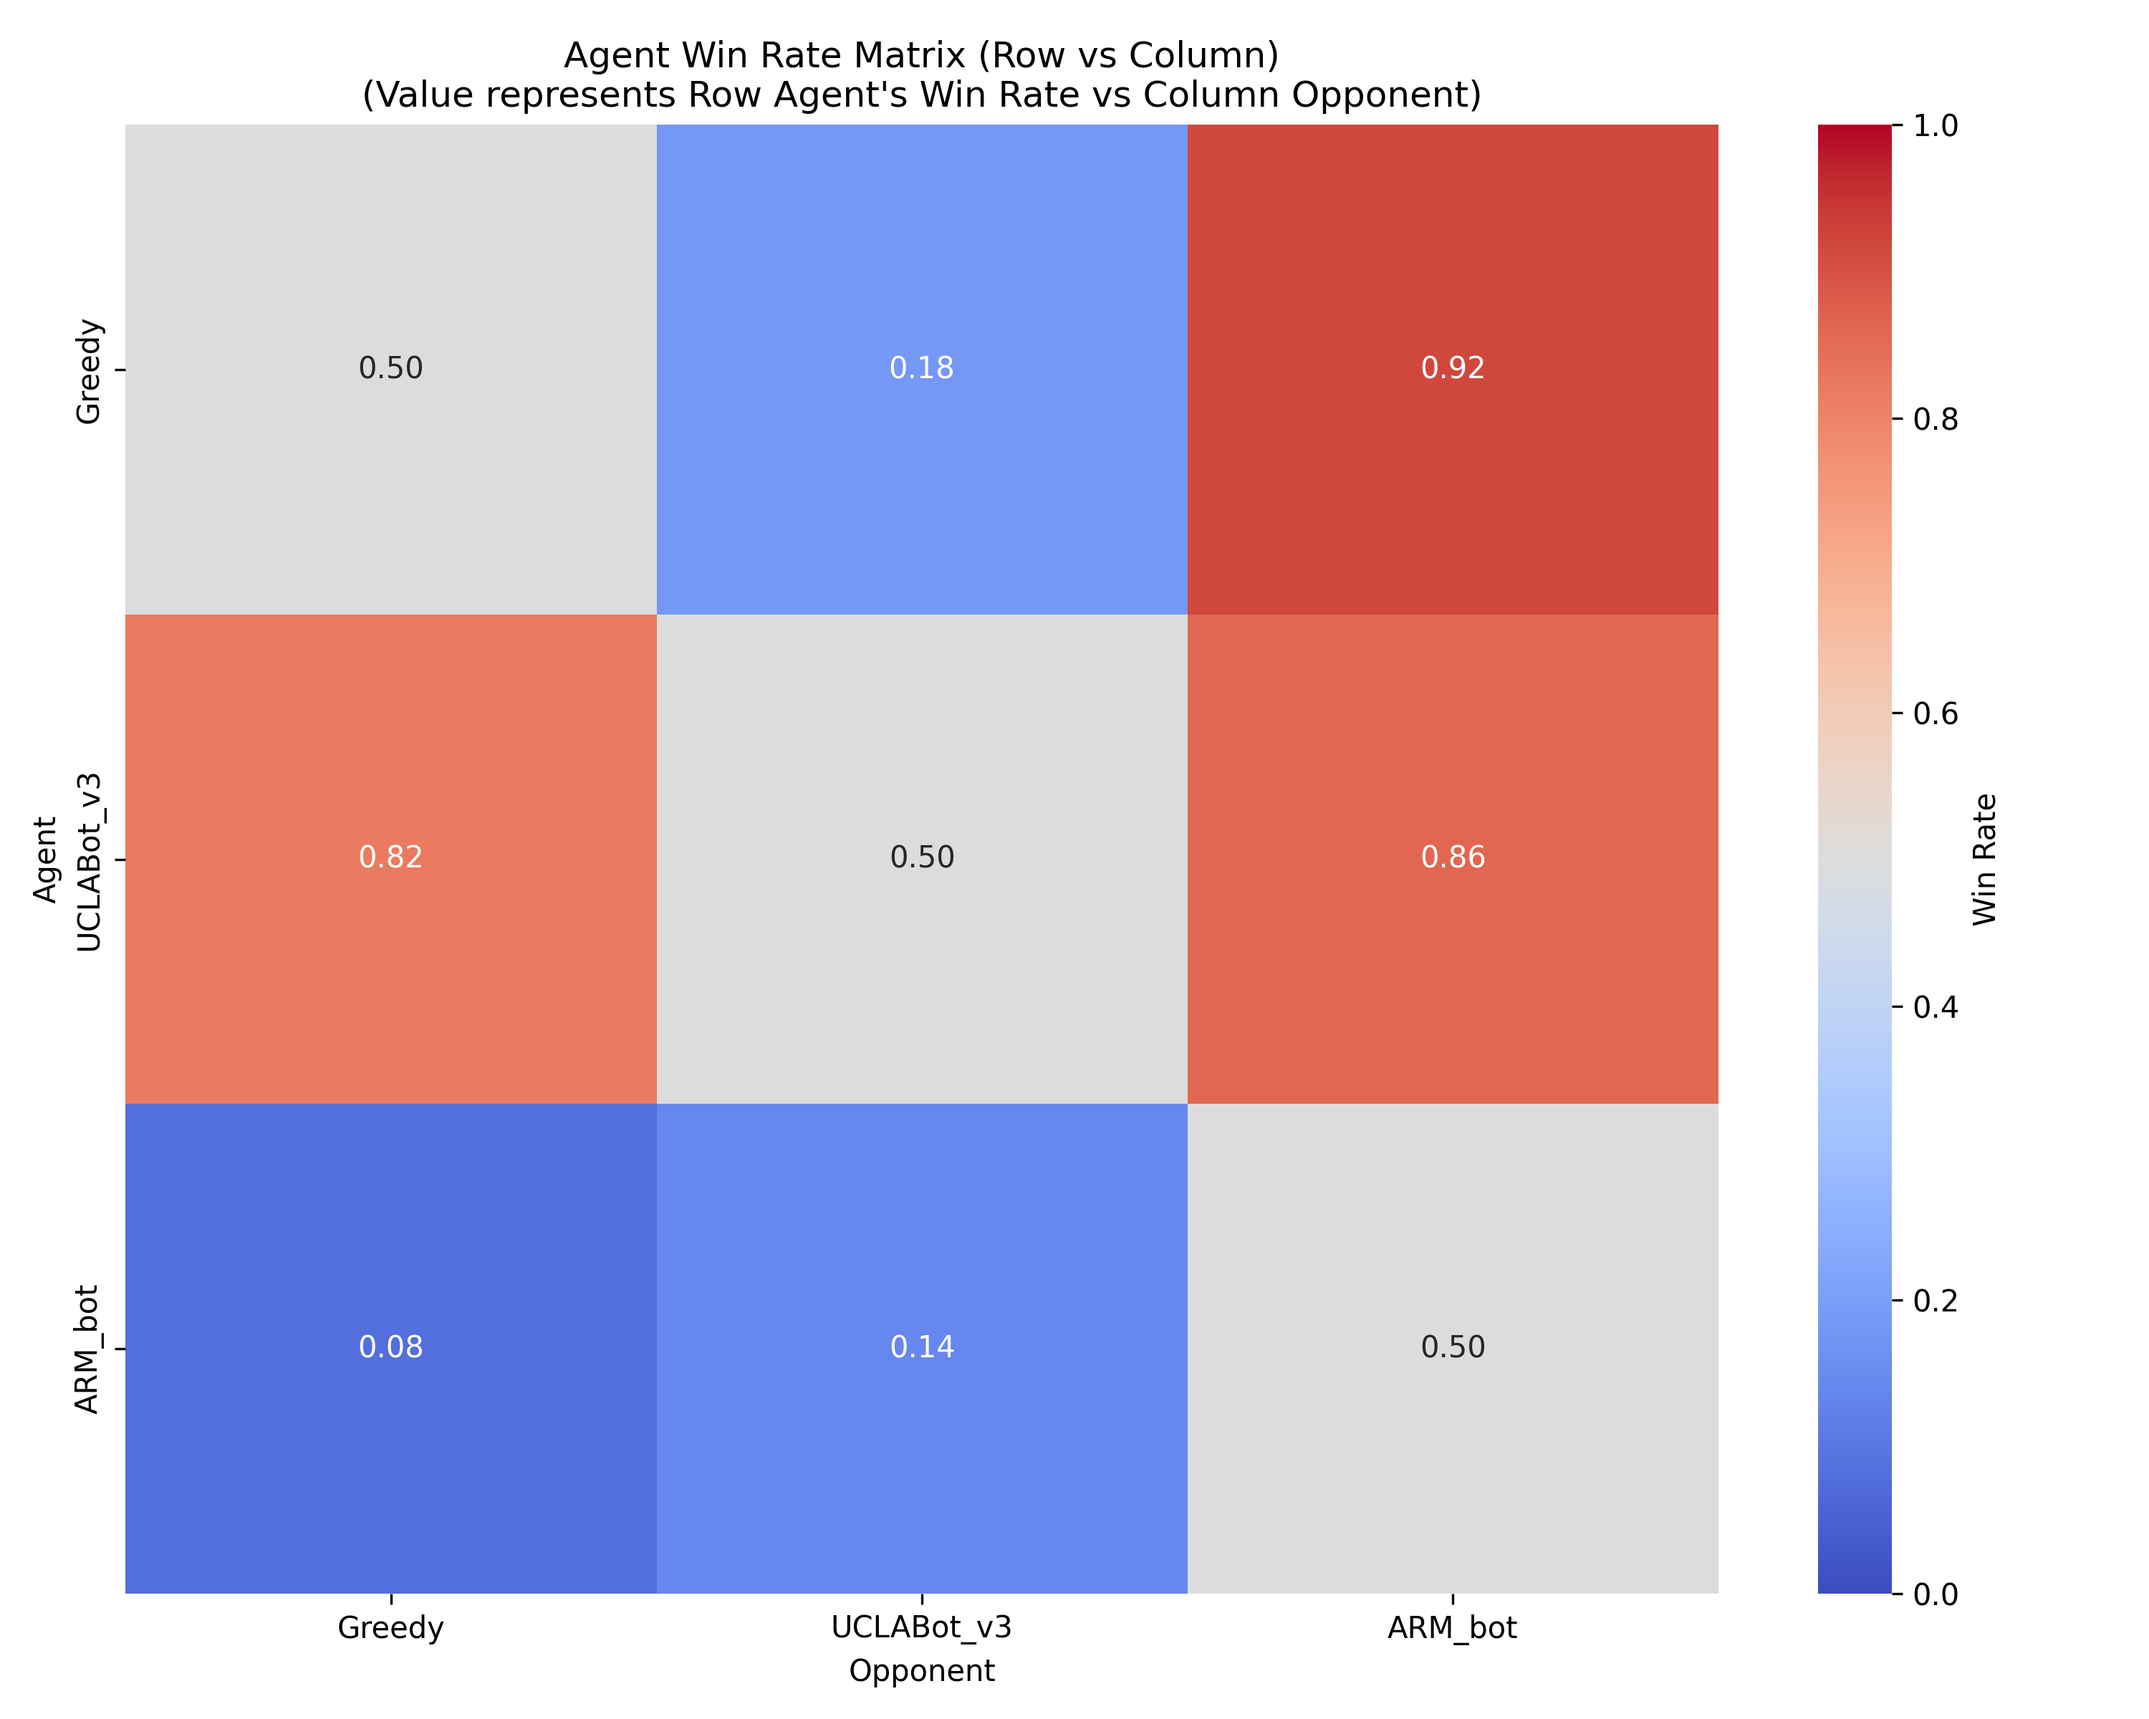
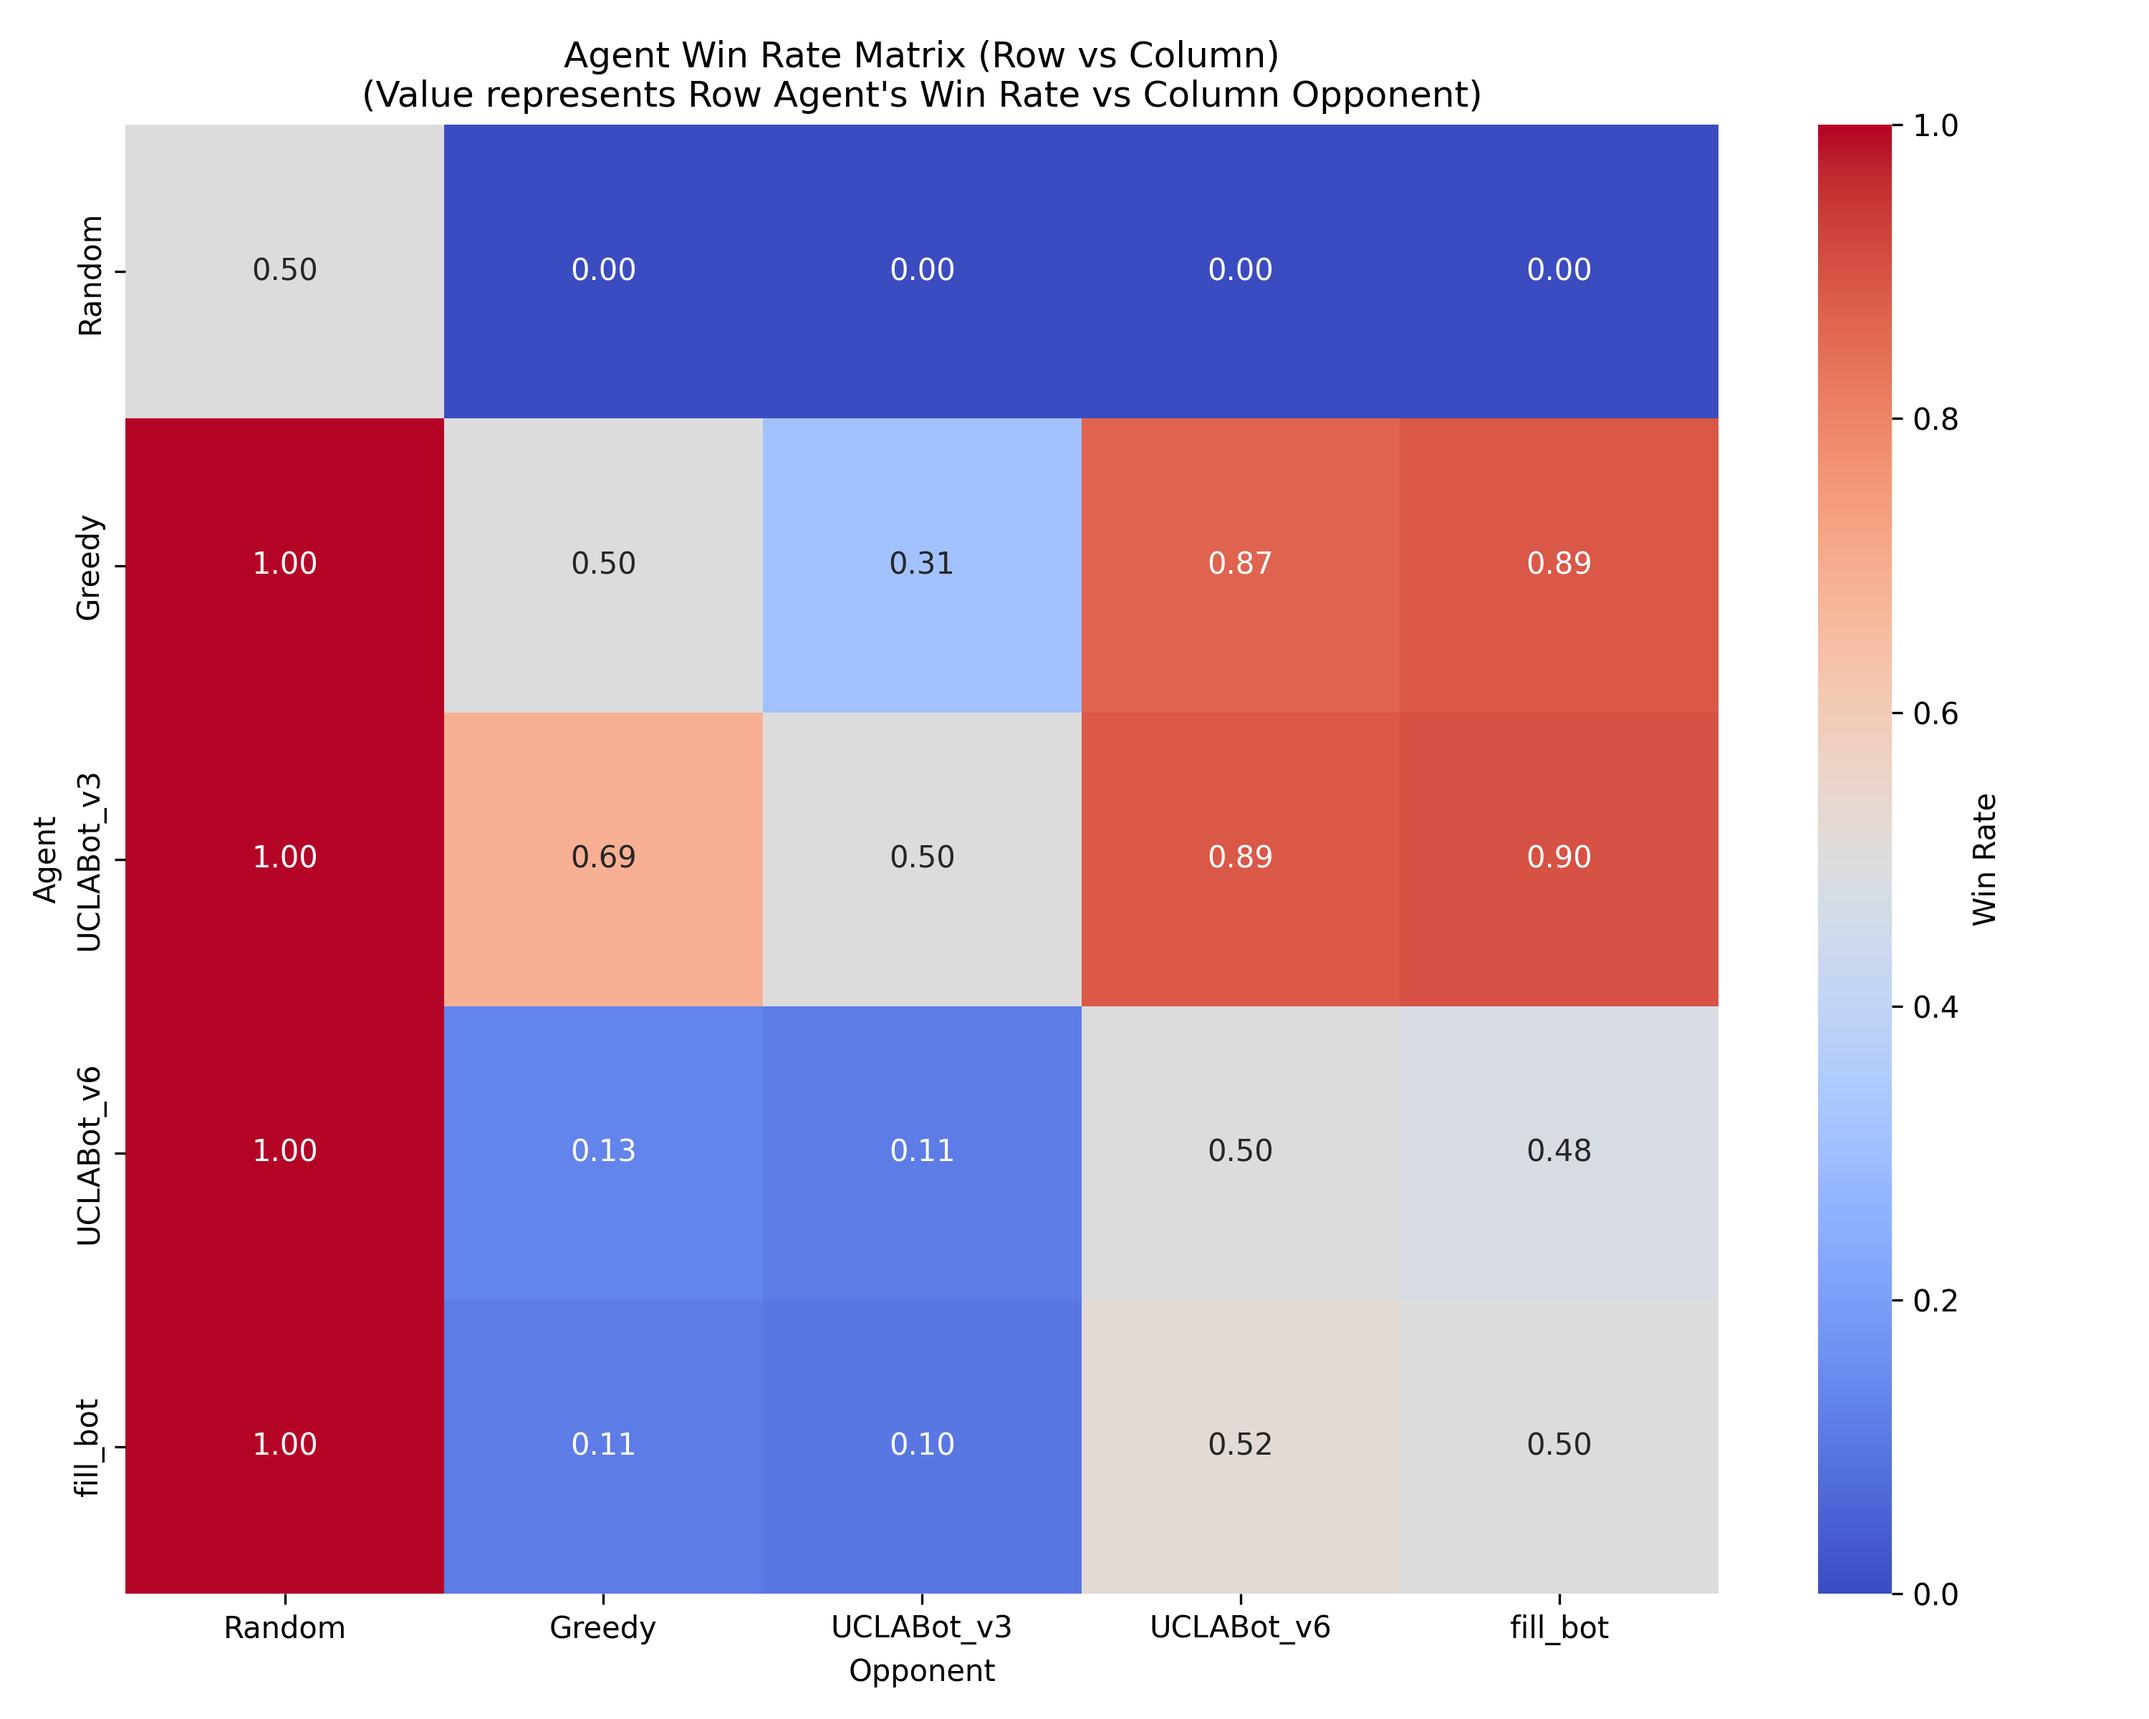
update bot v6

diff --git a/bots/ucla_bot_v6.py b/bots/ucla_bot_v6.py
@@ -1,61 +1,91 @@
 import random
 from agent_interface import BaseAgent
 
-# Precompute bitboard masks for a 5x5 grid (60 edges, 25 boxes)
-BOX_MASKS = []
-LINE_TO_BOXES = [[] for _ in range(60)]
-
-for r in range(5):
-    for c in range(5):
-        top = r * 5 + c
-        bottom = (r + 1) * 5 + c
-        left = 30 + r * 6 + c
-        right = 30 + r * 6 + c + 1
-        
-        mask = (1 << top) | (1 << bottom) | (1 << left) | (1 << right)
-        BOX_MASKS.append(mask)
-        
-        LINE_TO_BOXES[top].append(mask)
-        LINE_TO_BOXES[bottom].append(mask)
-        LINE_TO_BOXES[left].append(mask)
-        LINE_TO_BOXES[right].append(mask)
-
 class UCLABot_v6(BaseAgent):
-    def __init__(self, name="UCLABot_v6"):
+    """
+    Bitboard-based Greedy Bot.
+    Fast execution, but lacks advanced endgame chain logic.
+    """
+    def __init__(self, name="UCLABot_v6", size=5):
         super().__init__(name)
+        
+        # Khởi tạo động dựa trên kích thước bàn cờ
+        self.size = size
+        self.n_lines = 2 * size * (size + 1)
+        self.half_lines = self.n_lines // 2
+        
+        self.BOX_MASKS = []
+        self.LINE_TO_BOXES = [[] for _ in range(self.n_lines)]
+        
+        self._precompute_bitboards()
+
+    def _precompute_bitboards(self):
+        for r in range(self.size):
+            for c in range(self.size):
+                # Cạnh ngang (Lưu theo hàng - Row-Major)
+                top = r * self.size + c
+                bottom = (r + 1) * self.size + c
+                
+                # Cạnh dọc (Lưu theo cột - Column-Major - Khớp với môi trường game)
+                left = self.half_lines + c * self.size + r
+                right = self.half_lines + (c + 1) * self.size + r
+                
+                # Tạo Bitmask cho ô vuông
+                mask = (1 << top) | (1 << bottom) | (1 << left) | (1 << right)
+                self.BOX_MASKS.append(mask)
+                
+                # Ánh xạ từ cạnh ngược về ô
+                self.LINE_TO_BOXES[top].append(mask)
+                self.LINE_TO_BOXES[bottom].append(mask)
+                self.LINE_TO_BOXES[left].append(mask)
+                self.LINE_TO_BOXES[right].append(mask)
 
     def get_move(self, s) -> int:
         valid_moves = s.get_valid_moves()
         if not valid_moves:
             return -1
 
+        # Cập nhật kích thước và tạo lại bitboard nếu môi trường thay đổi kích thước đột ngột
+        if len(s.l) != self.n_lines:
+            self.size = s.SIZE
+            self.n_lines = s.N_LINES
+            self.half_lines = self.n_lines // 2
+            self.BOX_MASKS = []
+            self.LINE_TO_BOXES = [[] for _ in range(self.n_lines)]
+            self._precompute_bitboards()
+
+        # Chuyển trạng thái bàn cờ sang Bitboard
         state_bb = 0
         for i, val in enumerate(s.l):
             if val != 0:
                 state_bb |= (1 << i)
 
+        # Ưu tiên 1: Tìm nước ăn điểm
         for move in valid_moves:
             if self._is_capture(state_bb, move):
                 return move
 
+        # Ưu tiên 2: Tìm các nước an toàn (không tạo ô 3 cạnh)
         safe_moves = [m for m in valid_moves if self._is_safe(state_bb, m)]
         
         if safe_moves:
             return random.choice(safe_moves)
 
+        # Ưu tiên 3: Hết cách, đành bốc bừa
         return random.choice(valid_moves)
 
     def _is_capture(self, state_bb, move):
         new_state = state_bb | (1 << move)
-        for box_mask in LINE_TO_BOXES[move]:
+        for box_mask in self.LINE_TO_BOXES[move]:
             if (new_state & box_mask) == box_mask:
                 return True
         return False
 
     def _is_safe(self, state_bb, move):
         new_state = state_bb | (1 << move)
-        for box_mask in LINE_TO_BOXES[move]:
+        for box_mask in self.LINE_TO_BOXES[move]:
             overlap = new_state & box_mask
+            # Lưu ý: int.bit_count() yêu cầu Python 3.10 trở lên
             if overlap.bit_count() == 3:
                 return False
         return True

diff --git a/tournament.py b/tournament.py
@@ -116,6 +116,9 @@ def create_agent(name: str, size: int):
     elif name == "ARM_bot":
         from bots.arm_bot import ArmandoBot
         return ArmandoBot(name=name, ply=2)
+    elif name == "fill_bot":
+        from bots.fill_bot import FillBot
+        return FillBot(name=name)
     else:
         raise ValueError(f"Unknown agent name: {name}")
 
@@ -217,7 +220,7 @@ def main():
 
     # List of agent names to include in the tournament
     agent_names = [
-        # "Random", 
+        "Random", 
         "Greedy", 
         # "Greedy Chain",
         # "Alpha-Beta (0.1s)", 
@@ -234,7 +237,7 @@ def main():
         # "UCLABot_v2",
         "UCLABot_v3",
         # "UCLABot_v4",
-        # "UCLABot_v6",
+         "UCLABot_v6",
         # "UCLABot_v4",   
         # "UCLAGreedyBot",
         # "UCLAAlphaBeta",
@@ -245,7 +248,8 @@ def main():
         # "UCLA_MCTS_0.1",
         # "UCLA_MCTS_0.5",
         # "UCLA_MCTS_0.2",
-        "ARM_bot"
+        # "ARM_bot",
+        "fill_bot"
 
     ]
     n_agents = len(agent_names)
